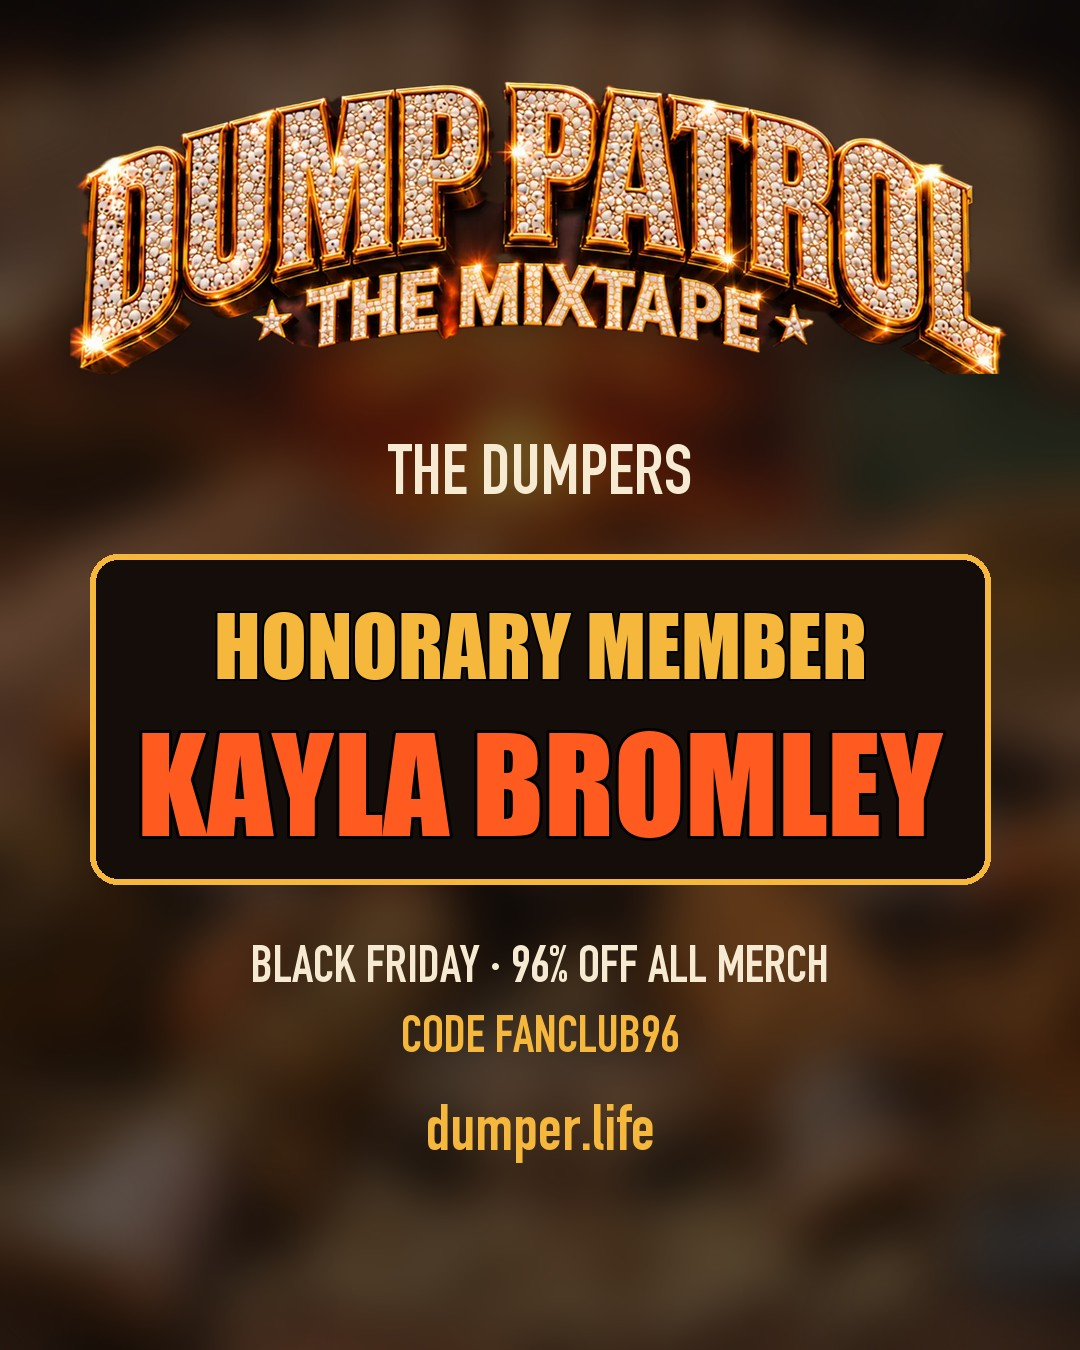
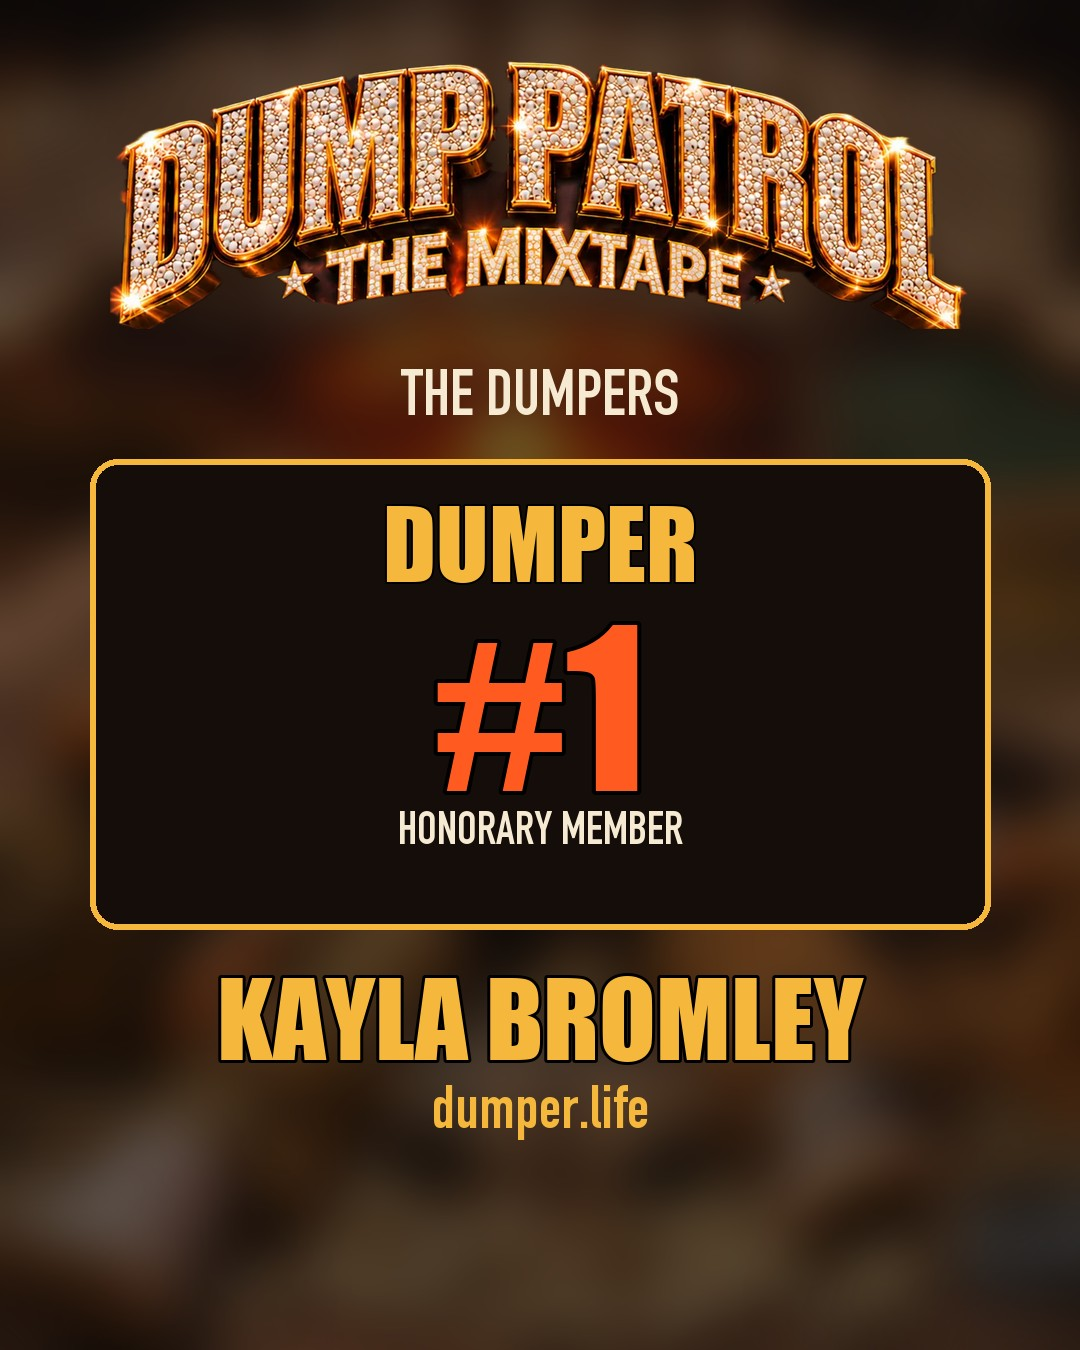
Kayla Dumper #1, Tony Dumper #2 cards

diff --git a/c/kayla-bromley/index.html b/c/kayla-bromley/index.html
@@ -3,9 +3,9 @@
 <head>
 <meta charset="utf-8">
 <meta name="viewport" content="width=device-width, initial-scale=1">
-<title>Honorary Member: Kayla Bromley · The Dumpers</title>
+<title>Dumper #1 · Kayla Bromley · The Dumpers</title>
 <meta name="description" content="Dump Patrol — The Mixtape. Black Friday: 96% off all merch with code FANCLUB96.">
-<meta property="og:title" content="The Dumpers · Honorary Member: Kayla Bromley">
+<meta property="og:title" content="The Dumpers · Dumper #1 · Kayla Bromley">
 <meta property="og:description" content="Dump Patrol — The Mixtape. 96% off all merch with code FANCLUB96 at dumper.life">
 <meta property="og:image" content="https://dumper.life/c/kayla-bromley/card.jpg">
 <meta property="og:image:width" content="1080"><meta property="og:image:height" content="1350">
@@ -19,5 +19,5 @@ img{width:min(100%,440px);border-radius:12px;display:block;margin:0 auto 16px}
 a{display:inline-block;font-weight:800;padding:12px 22px;border-radius:999px;background:#f5b73c;color:#1a0f05;text-decoration:none}
 </style>
 </head>
-<body><main><img src="card.jpg" alt="The Dumpers — Honorary Member: Kayla Bromley"><a href="/">Enter dumper.life</a></main></body>
+<body><main><img src="card.jpg" alt="The Dumpers — Dumper #1 · Kayla Bromley"><a href="/">Enter dumper.life</a></main></body>
 </html>

diff --git a/c/tony-gorelick/index.html b/c/tony-gorelick/index.html
@@ -3,9 +3,9 @@
 <head>
 <meta charset="utf-8">
 <meta name="viewport" content="width=device-width, initial-scale=1">
-<title>Honorary Member: Tony Gorelick · The Dumpers</title>
+<title>Dumper #2 · Tony Gorelick · The Dumpers</title>
 <meta name="description" content="Dump Patrol — The Mixtape. Black Friday: 96% off all merch with code FANCLUB96.">
-<meta property="og:title" content="The Dumpers · Honorary Member: Tony Gorelick">
+<meta property="og:title" content="The Dumpers · Dumper #2 · Tony Gorelick">
 <meta property="og:description" content="Dump Patrol — The Mixtape. 96% off all merch with code FANCLUB96 at dumper.life">
 <meta property="og:image" content="https://dumper.life/c/tony-gorelick/card.jpg">
 <meta property="og:image:width" content="1080"><meta property="og:image:height" content="1350">
@@ -19,5 +19,5 @@ img{width:min(100%,440px);border-radius:12px;display:block;margin:0 auto 16px}
 a{display:inline-block;font-weight:800;padding:12px 22px;border-radius:999px;background:#f5b73c;color:#1a0f05;text-decoration:none}
 </style>
 </head>
-<body><main><img src="card.jpg" alt="The Dumpers — Honorary Member: Tony Gorelick"><a href="/">Enter dumper.life</a></main></body>
+<body><main><img src="card.jpg" alt="The Dumpers — Dumper #2 · Tony Gorelick"><a href="/">Enter dumper.life</a></main></body>
 </html>
